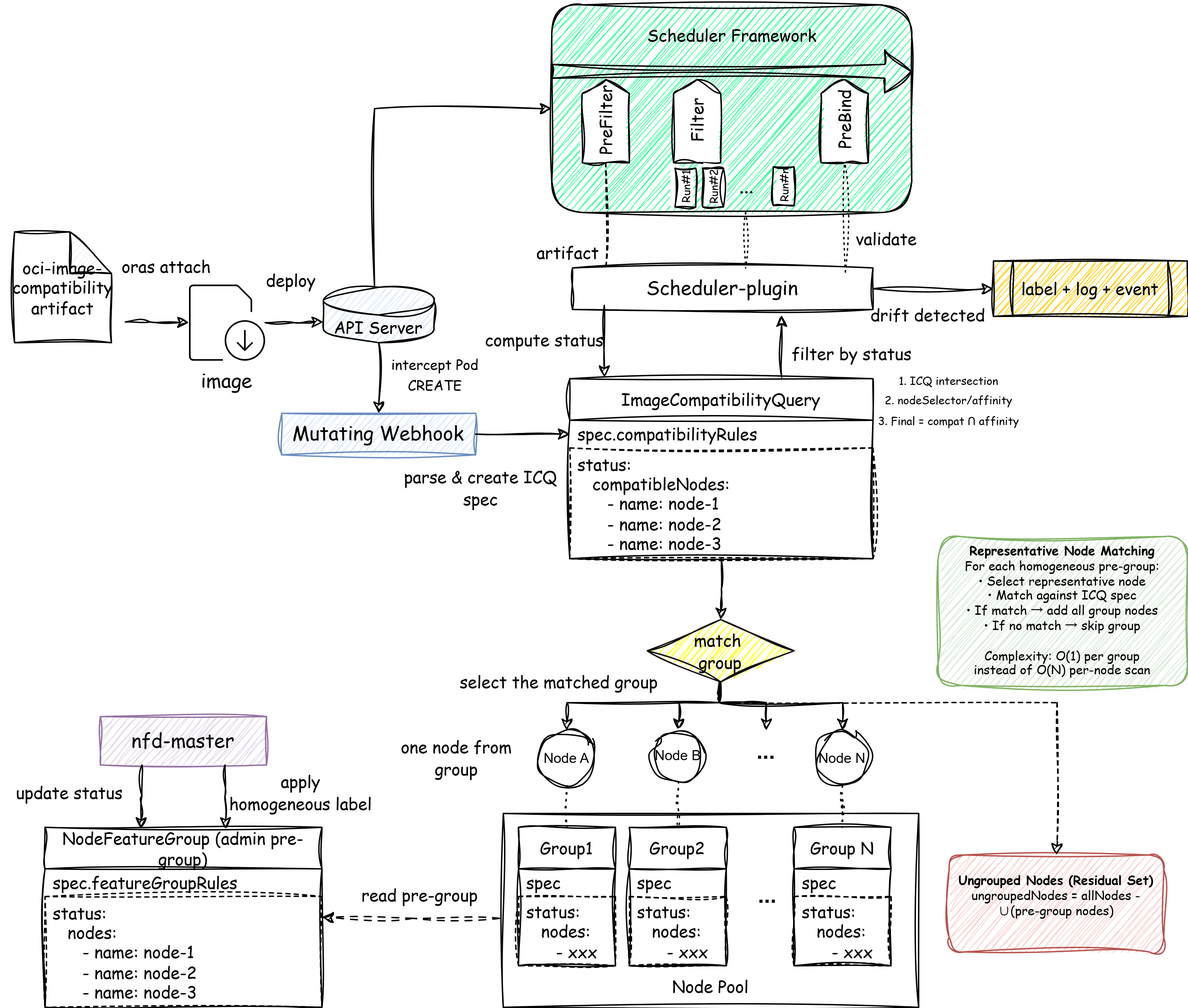
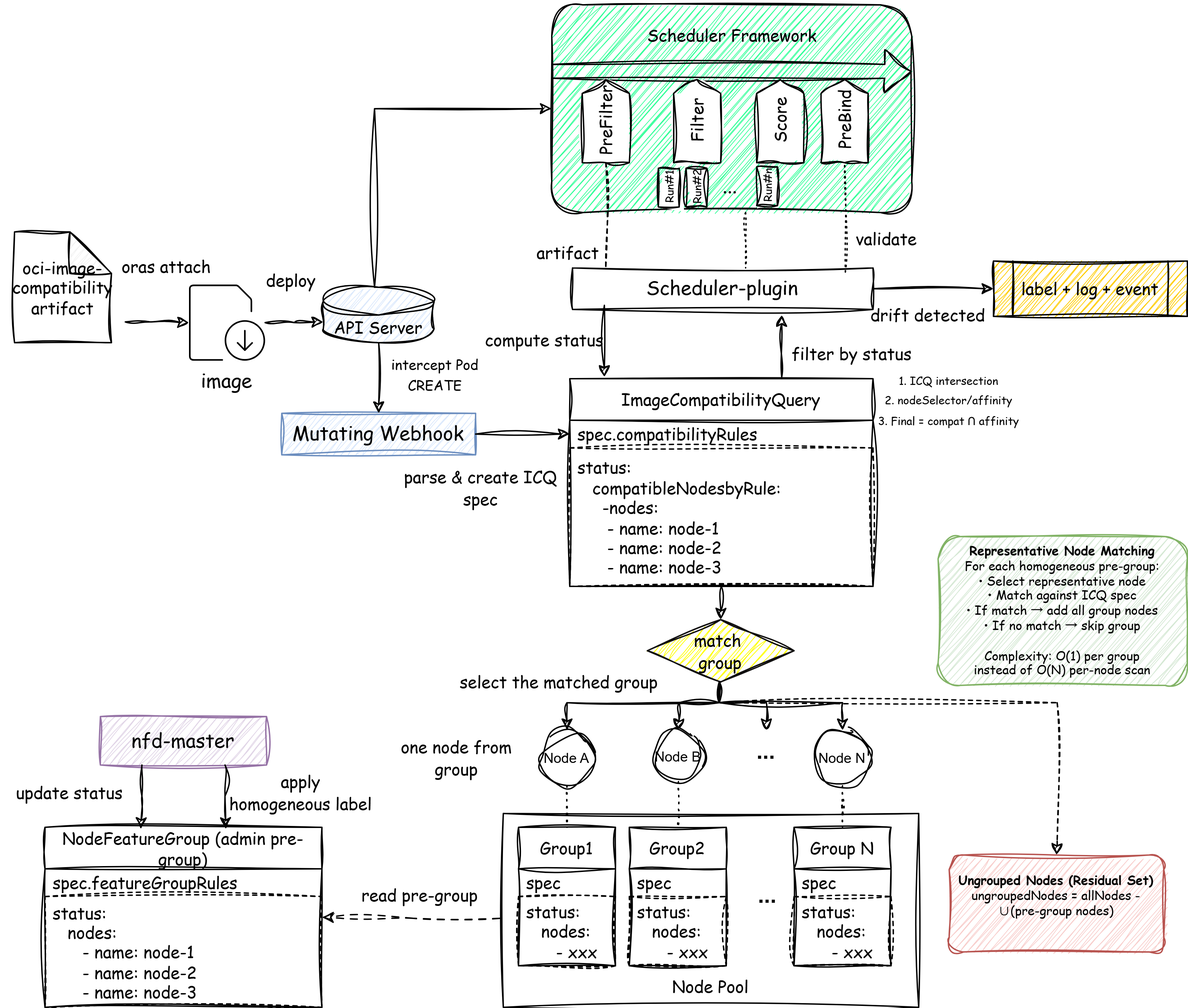
Add security section, fix the internal inconsistencies and align with the multi weight rule sets design

diff --git a/enhancements/2403-nfd-image-compatibility-scheduler/README.md b/enhancements/2403-nfd-image-compatibility-scheduler/README.md
@@ -10,7 +10,10 @@
     - [Node Features Drift Handling](#node-features-drift-handling)
     - [NFG Status Update Latency](#nfg-status-update-latency)
 - [Design Details](#design-details)
+  - [Component Responsibilities](#component-responsibilities)
+  - [Security](#security)
   - [Proposal C: Node Pre-grouping](#proposal-c-node-pre-grouping)
+    - [Workflow](#workflow)
     - [Example Flow](#example-flow)
     - [Key Characteristics](#key-characteristics)
     - [Exception Handling](#exception-handling)
@@ -63,8 +66,9 @@ When deploying applications that require specific hardware or software features 
 When node features drift over time (e.g., due to software updates or hardware changes), it can lead to mismatches between the pre-group definitions and the actual node capabilities. This drift can compromise the effectiveness of the pre-grouping strategy.
 It can be divided into two scenarios:
 1. **Drift Before Scheduling:** The nfd-master detects feature drift and fetch the ICQ feature dimensions to validate the homogeneity of pre-groups(`NodeFeatureGroup`). Additionally, the **PreBind phase** performs real-time validation using the latest node features, catching any race conditions where ICQ status might be stale.
-2. **Drift After Scheduling:** When drift happens after a pod has been scheduled, nfd-master detects the drifted node features, evaluates which ICQs are affected by comparing the drifted features against `spec.compatibilityRules`, finds pods bound to the drifted nodes via ICQ references, and alerts administrators through:
-   - **Pod labels**: `nfd.k8s-sigs.io/compatibility-drift: "true"`, `nfd.k8s-sigs.io/drift-node`, `nfd.k8s-sigs.io/drift-time`
+2. **Drift After Scheduling:** When drift happens after a pod has been scheduled, nfd-master detects the drifted node features, evaluates which ICQs are affected by comparing the drifted features against `spec.compatibilities[*].rules`, finds pods bound to the drifted nodes via ICQ references, and alerts administrators through:
+   - **Pod labels**: `nfd.k8s-sigs.io/compatibility-drift: "true"`, `nfd.k8s-sigs.io/drift-node: "<node-name>"`
+   - **Pod annotations**: `nfd.k8s-sigs.io/drift-time: "<RFC3339-timestamp>"`
    - **Structured logs**: JSON format with pod/node/image/drifted_features details
    - **K8s Events**: Warning events with `reason: NodeCompatibilityDrift`
    
@@ -76,10 +80,24 @@ If `NodeFeatureGroup` status updates are delayed, it can lead to stale informati
 ## Design Details
 The core of this proposal is to implement an `ImageCompatibilityPlugin` within the Kubernetes scheduler framework, working with a new `ImageCompatibilityQuery` (ICQ) CRD and existing `NodeFeatureGroup` (NFG) CRD.
 
-**Component Responsibilities:**
-- **Mutating Webhook**: Parses OCI artifacts during Pod admission. Checks if ICQ already exists (by image digest); if not, fetches OCI artifact and creates ICQ CR with `spec.compatibilityRules` only (no status computation). The ICQ CR itself serves as persistent cache.
-- **Scheduler Plugin**: Computes and updates `status.compatibleNodes` for ICQs, performs filtering compatible nodes from ICQ and PreBind validation.
+### Component Responsibilities
+- **Mutating Webhook**: Parses OCI artifacts during Pod admission. Checks if ICQ already exists (by image digest); if not, fetches OCI artifact and creates ICQ CR with `spec.compatibilities` only (no status computation). The ICQ CR itself serves as persistent cache. Enforces a 5-second timeout on OCI artifact fetches; if exceeded or webhook is unavailable, blocks pod creation. If fetch success with no compatibility metadata, admits the pod without creating ICQ or adding `icq-refs` annotation.
+- **Scheduler Plugin**: Computes and updates `status.compatibleNodesByRule` for ICQs, performs filtering compatible nodes from ICQ (union within ICQ, intersection across ICQs), scoring by weight, and PreBind validation.
 - **nfd-master**: Updates `NodeFeatureGroup` status for admin-defined pre-groups only, manages the homogeneity labels of pre-groups, and detects post-scheduling drift by comparing drifted node features against ICQ compatibility rules.
+- **GC Controller**: Watches pod termination events, decrements ICQ refcount (annotation `nfd.k8s-sigs.io/refcount`) via optimistic concurrency patch (retry on resourceVersion conflict), and deletes ICQ when refcount reaches 0 and TTL expires.
+
+### Security
+
+- **Registry Credentials:** The webhook reads registry credentials from secrets synced by the administrator into the webhook's own namespace. RBAC is scoped to `get secrets` in the webhook namespace only.
+- **SSRF Prevention:** The webhook enforces a configurable registry allowlist (`--allowed-registries` flag). Image references pointing to registries outside the allowlist will not be fetched.
+- **RBAC Surface:**
+
+| Component | RBAC Permissions |
+|-----------|-----------------|
+| Mutating Webhook | `create`, `get`, `update` on `ImageCompatibilityQuery` |
+| Scheduler Plugin | `get`, `list`, `watch`, `update` on `ImageCompatibilityQuery` (status subresource) |
+| nfd-master | `get`, `list`, `watch`, `update` on `NodeFeatureGroup`; `update` on Pod labels |
+| GC Controller | `get`, `list`, `watch`, `delete` on `ImageCompatibilityQuery`; `get`, `list`, `watch` on Pods |
 
 ### Proposal C: Node Pre-grouping
 
@@ -103,25 +121,68 @@ metadata:
     nfd.k8s-sigs.io/refcount: "3"
     nfd.k8s-sigs.io/last-used: "2026-06-15T10:05:00Z"
 spec:
-  compatibilityRules:
-    - name: "image-compatibility"
-      matchFeatures:
-        - feature: kernel.version
-          matchExpressions:
-            major: {op: In, value: ["6"]}
-        - feature: cpu.cpuid
-          matchExpressions:
-            AVX2: {op: Is, value: true}
+  version: "v1"
+  compatibilities:
+    - rules:
+        - name: "optimal"
+          matchFeatures:
+            - feature: kernel.version
+              matchExpressions:
+                major: {op: In, value: ["6"]}
+            - feature: cpu.cpuid
+              matchExpressions:
+                AVX2: {op: Exists}
+      weight: 100
+      tag: "preferred"
+      description: "Optimal: kernel 6.x + AVX2"
+    - rules:
+        - name: "minimum"
+          matchFeatures:
+            - feature: kernel.version
+              matchExpressions:
+                major: {op: In, value: ["5", "6"]}
+      weight: 50
+      tag: "minimum"
+      description: "Minimum: kernel 5.x+"
 status:
-  compatibleNodes:
-    - name: node-1
-    - name: node-2
-    - name: node-5
+  compatibleNodesByRule:
+    - tag: "preferred"
+      weight: 100
+      nodes:
+        - name: node-1
+        - name: node-2
+    - tag: "minimum"
+      weight: 50
+      nodes:
+        - name: node-1
+        - name: node-2
+        - name: node-5
+        - name: node-8
   conditions:
     - type: Ready
       status: "True"
       lastTransitionTime: "2026-06-15T10:00:00Z"
 ```
+
+**ICQ Spec Structure:**
+- `spec.version`: Version of the compatibility spec (matches OCI artifact version)
+- `spec.compatibilities`: List of compatibility sets, each containing:
+  - `rules`: List of Node Feature Rules (same structure as `NodeFeatureGroup`)
+  - `weight`: Priority of the compatibility set (higher = more preferred)
+  - `tag`: Label for grouping/distinguishing compatibility sets
+  - `description`: Human-readable description
+
+**ICQ Status Structure:**
+- `status.compatibleNodesByRule`: Nodes grouped by compatibility rule, each containing:
+  - `tag`: Matches the tag from spec
+  - `weight`: Matches the weight from spec
+  - `nodes`: List of compatible nodes (with `name` field)
+
+**Scheduling Logic:**
+- **Filter Phase**: Computes the **union** of all nodes from `compatibleNodesByRule[*].nodes` to maximize candidate set
+- **Score Phase**: Assigns scores based on `weight` — nodes in higher-weight rules get higher scores; if a node belongs to multiple rules, use the highest weight
+
+#### Workflow
 
 The process involves these main phases:
 
@@ -134,16 +195,17 @@ The process involves these main phases:
      - Constructs ICQ name: `icq-{image-digest-12chars}-{artifact-digest-12chars}`.
      - Checks if ICQ already exists：If ICQ exists → reuses it. If ICQ does not exist → parses compatibility rules and creates the ICQ CR.
    - Annotates the Pod with ICQ references: `nfd.k8s-sigs.io/icq-refs: "icq-xxx,icq-yyy"`.
-1. **Scheduling Prefilter Phase:** The scheduler plugin:
-   - Reads Pod annotations to get image digests.
-   - For each image, checks if ICQ exists and has `status.compatibleNodes` ready.
-   - If ICQ status is not ready, computes it by evaluating compatibility against admin pre-groups:
-     - For each `NodeFeatureGroup`, checks the homogeneity label `nfd.k8s-sigs.io/homogeneous-for-{icq-name}`.
-     - If label is "true", uses representative node matching: selects one representative node and checks if it satisfies the ICQ's `spec.compatibilityRules`. If the representative node matches, all nodes in that pre-group are added to `status.compatibleNodes`. If it does not match, the entire group is skipped.
-     - If label is "false" or missing, uses node-by-node matching: each node in the group is checked against the ICQ rules individually.
-   - Updates `status.compatibleNodes` and sets `conditions[Ready]=True`.
-2. **Scheduling Filter Phase:** The scheduler filters candidate nodes by checking their presence in the `status.compatibleNodes` of all relevant ICQs (intersection for multi-image Pods).
-3. **Scheduling PreBind Phase:** A final validation step that re-verifies node compatibility using the latest node features from informer cache. This catches any race conditions where ICQ status might be stale due to delayed informer updates. If validation fails, the binding is rejected and the pod is rescheduled.
+3. **Scheduling Prefilter Phase:** The scheduler plugin:
+     - Reads Pod annotations to get image digests.
+     - For each image, checks if ICQ exists and has `status.compatibleNodesByRule` ready.
+     - If ICQ status is not ready, computes it **synchronously** by evaluating each compatibility rule against admin pre-groups (node features are read from `NodeFeature` CRs):
+       - For each `NodeFeatureGroup`, checks the homogeneity label `nfd.k8s-sigs.io/homogeneous-for-{icq-name}`.
+       - If label is "true", uses representative node matching: selects one representative node and checks if it satisfies the rules. If the representative node matches, all nodes in that pre-group are added to the corresponding entry in `status.compatibleNodesByRule`. If it does not match, the entire group is skipped.
+       - If label is "false" or missing, uses node-by-node matching: each node in the group is checked against the rule individually.
+     - Updates `status.compatibleNodesByRule` and sets `conditions[Ready]=True`.
+4. **Scheduling Filter Phase:** The scheduler computes the **union** of all nodes from `status.compatibleNodesByRule[*].nodes` of each relevant ICQ, then takes the **intersection** across multiple ICQs (for multi-image Pods) to determine candidate nodes.
+5. **Scheduling Score Phase:** For each candidate node, the scheduler assigns a score based on the `weight` of the compatibility rule it belongs to.
+6. **Scheduling PreBind Phase:** A final validation step that re-verifies node compatibility using the latest node features from `NodeFeature` CRs. This catches any race conditions where ICQ status might be stale due to delayed informer updates. If validation fails, the binding is rejected and the pod is rescheduled.
 
 #### Example Flow
 
@@ -155,37 +217,37 @@ Assume a cluster with 10,000 nodes pre-grouped into 10 groups (`Group-1` to `Gro
 
 **Phase 2: Pod Creation (Webhook)**
 - The mutating webhook intercepts the first Pod creation.
-- For `app@sha256:aaa`: webhook fetches image manifest (image-digest=sha256:aaa) and latest NFD compatibility artifact (artifact-digest=sha256:xxx), checks if ICQ `icq-aaa-xxx` exists → No → extracts compatibility rules (requires kernel 6.x and AVX2), creates ICQ CR with `spec.compatibilityRules`.
-- For `sidecar@sha256:bbb`: webhook fetches image manifest (image-digest=sha256:bbb) and latest NFD compatibility artifact (artifact-digest=sha256:yyy), checks if ICQ `icq-bbb-yyy` exists → No → extracts compatibility rules (requires kernel 5.x or later), creates ICQ CR.
+- For `app@sha256:aaa`: webhook fetches image manifest (image-digest=sha256:aaa) and latest NFD compatibility artifact (artifact-digest=sha256:xxx), checks if ICQ `icq-aaa-xxx` exists → No → extracts compatibilities (e.g., preferred: kernel 6.x + AVX2 weight=100; minimum: kernel 5.x+ weight=50), creates ICQ CR with `spec.compatibilities`.
+- For `sidecar@sha256:bbb`: webhook fetches image manifest (image-digest=sha256:bbb) and latest NFD compatibility artifact (artifact-digest=sha256:yyy), checks if ICQ `icq-bbb-yyy` exists → No → extracts compatibilities (e.g., kernel 5.x+ weight=100), creates ICQ CR.
 - Pod is annotated with `nfd.k8s-sigs.io/icq-refs: "icq-aaa-xxx,icq-bbb-yyy"` and admitted.
 - For the 2nd and 3rd replicas: webhook finds ICQs already exist → reuses them (no registry fetch). Only 2 registry fetches total for all 3 Pods.
 
 **Phase 3: Homogeneity Check (nfd-master, triggered by ICQ creation)**
 - nfd-master watches node feature drift event and ICQ creation events via informer.
-- When new ICQ is created (e.g., `icq-aaa-xxx`) or node feature drift is detected, nfd-master extracts compatibility dimensions from ICQ `spec.compatibilityRules` (e.g., kernel.version, cpu.cpuid.AVX2).
+- When new ICQ is created (e.g., `icq-aaa-xxx`) or node feature drift is detected, nfd-master extracts compatibility dimensions from all rules in ICQ `spec.compatibilities` (e.g., kernel.version, cpu.cpuid.AVX2).
 - For each pre-group, checks if all nodes have the same values for these dimensions:
   - `Group-1` is homogeneous → label `nfd.k8s-sigs.io/homogeneous-for-icq-aaa-xxx: "true"`.
   - `Group-3` is heterogeneous (mixed AVX2 support) → label `nfd.k8s-sigs.io/homogeneous-for-icq-aaa-xxx: "false"`.
 
-**Phase 4: Scheduler Computes ICQ Status (Scheduler Plugin)**
-- Scheduler plugin detects new ICQs via informer.
-- For `icq-aaa-xxx` (requires kernel 6.x + AVX2):
-  - Evaluates each pre-group based on homogeneity label:
-  - `Group-1` (homogeneous=true): representative node matches → adds all 1,200 nodes from `Group-1` to `status.compatibleNodes`.
-  - `Group-2` (homogeneous=true): representative node does not match (no AVX2) → skips entire group.
-  - `Group-3` (homogeneous=false): node-by-node matching → adds 800 compatible nodes from 1,500 total.
-  - Continues for all groups → final `status.compatibleNodes` = 3,500 nodes.
-- For `icq-bbb-yyy` (requires kernel 5.x+):
-  - Similar evaluation → `status.compatibleNodes` = 8,200 nodes.
+**Phase 4: Scheduler Computes ICQ Status (Scheduler Plugin, during Prefilter)**
+- Scheduler plugin computes ICQ status synchronously during the Prefilter phase when `status.compatibleNodesByRule` is not yet ready.
+- For `icq-aaa-xxx` (preferred: kernel 6.x + AVX2 weight=100; minimum: kernel 5.x+ weight=50):
+  - Evaluates each pre-group based on homogeneity label, for each compatibility rule:
+  - `Group-1` (homogeneous=true): representative node matches preferred rule → adds 1,200 nodes to `compatibleNodesByRule[preferred]`; also matches minimum rule → adds to `compatibleNodesByRule[minimum]`.
+  - `Group-2` (homogeneous=true): representative node does not match preferred (no AVX2) → skips preferred; matches minimum (kernel 6.x) → adds to `compatibleNodesByRule[minimum]`.
+  - `Group-3` (homogeneous=false): node-by-node matching → adds 800 nodes to preferred, 1,500 nodes to minimum.
+  - Final `compatibleNodesByRule`: preferred=2,000 nodes, minimum=8,200 nodes.
+- For `icq-bbb-yyy` (kernel 5.x+ weight=100):
+  - Similar evaluation → `compatibleNodesByRule[default]` = 8,200 nodes.
 
 **Phase 5: Scheduling**
 - **Prefilter**: Scheduler reads Pod annotations, queries and updates the ICQ status.
-- **Filter**: Computes intersection: 3,500 ∩ 8,200 = 3,500 compatible nodes. Applies affinity/nodeSelector if present.
-- **Score/Reserve**: Selects best node from 3,500 candidates.
-- **PreBind**: Re-validates node compatibility using latest features from informer. If node is incompatible, rejects binding and reschedules.
+- **Filter**: For each ICQ, computes union of all `compatibleNodesByRule[*].nodes`. Then computes intersection across ICQs: (2,000 ∪ 8,200) ∩ 8,200 = 8,200. Applies affinity/nodeSelector if present.
+- **Score**: For each candidate node, assigns score based on highest weight from matching rules. Nodes in preferred (weight=100) get higher scores than nodes only in minimum (weight=50).
+- **PreBind**: Re-validates node compatibility using latest features from `NodeFeature` CRs. If node is incompatible, rejects binding and reschedules.
 - **Bind**: Pod bound to selected node.
 
-**Performance Impact:** Without pre-grouping, evaluating 10,000 nodes per ICQ would require 20,000 checks. With pre-grouping and homogeneity check, homogeneous groups use representative node matching (O(G)), while heterogeneous groups use node-by-node matching. In this example, 8 homogeneous groups need only 16 checks, 2 heterogeneous groups need 3,000 checks, totaling ~3,016 checks — still a significant reduction.
+**Performance Impact:** Without pre-grouping, evaluating 10,000 nodes per ICQ would require 20,000 checks. With pre-grouping and homogeneity check, homogeneous groups use representative node matching (O(G)), while heterogeneous groups use node-by-node matching. In this example, 9 homogeneous groups need only 18 checks, 1 heterogeneous group (1,500 nodes × 2 checks) needs 3,000 checks, totaling ~3,018 checks — still a significant reduction.
 
 #### Key Characteristics
 
@@ -201,10 +263,10 @@ Assume a cluster with 10,000 nodes pre-grouped into 10 groups (`Group-1` to `Gro
    - **Local LRU Cache (TTL 60s):** Webhook maintains an in-memory LRU cache to avoid repeated registry access within short time windows. Combined with ICQ CR as persistent cache, this two-layer caching prevents registry rate limiting while naturally handling artifact updates (TTL expiry triggers re-fetch, detects artifact-digest changes, creates new ICQ if needed).
 
 3. **Failure Policy for Compatibility Resolution (Scheduling Phase):**
-   - When the webhook fails to fetch the OCI artifact, it creates an ICQ with `status.conditions[Ready]=False`. The scheduler plugin executes the failure policy during Prefilter, configured by global parameter `defaultCompatibilityFailurePolicy`:
-   - **Ignore (Fail-open, default):** Skips compatibility check, allows scheduling on any node. Suitable for development clusters.
-   - **Fail (Fail-closed):** Marks Pod as Unschedulable, retries when registry recovers. Suitable for production clusters.
-   - **Two-level policy:** Cluster-level default via scheduler config, per-pod override via annotation `nfd.k8s-sigs.io/compatibility-policy`.
+   - Scheduler plugin applies `defaultCompatibilityFailurePolicy` for pods without `icq-refs` (images without compatibility metadata):
+      - **Fail (Fail-closed, default):** Marks Pod as Unschedulable. Suitable for production clusters where compatibility is critical.
+      - **Ignore (Fail-open):** Skips compatibility check, allows scheduling on any node. Suitable for development clusters.
+      - **Two-level policy:** Cluster-level default via scheduler config, per-pod override via annotation `nfd.k8s-sigs.io/compatibility-policy`.
 
 4. **ICQ Lifecycle Management (Persistent Cache):**
    - ICQs are named by combination key (`icq-{image-digest-12chars}-{artifact-digest-12chars}`), enabling automatic deduplication and artifact change detection. Name length is 29 characters, well within Kubernetes limits.
@@ -214,54 +276,56 @@ Assume a cluster with 10,000 nodes pre-grouped into 10 groups (`Group-1` to `Gro
    - GC controller deletes ICQ when refcount reaches 0 and TTL expires.
 
 5. **Scheduler Plugin Manages ICQ Status (Status Computation):**
-   - The scheduler plugin computes and updates `status.compatibleNodes` for ICQs, ensuring tight integration with the scheduling lifecycle.
+   - The scheduler plugin computes and updates `status.compatibleNodesByRule` for ICQs, ensuring tight integration with the scheduling lifecycle.
    - Status computation uses pre-group acceleration (see next point).
 
 6. **Homogeneity Check Implementation (nfd-master):**
    - **ImageCompatibility Controller:** An asynchronous controller within nfd-master that checks homogeneity for each pre-group NFG against each ICQ and updates labels.
    - **Check Algorithm:**
-     1. Extract ICQ dimensions from `spec.compatibilityRules` (e.g., `[kernel.version, cpu.cpuid.AVX2]`).
+     1. Extract ICQ dimensions from all rules in `spec.compatibilities[*].rules` (e.g., `[kernel.version, cpu.cpuid.AVX2]`).
      2. For each node in the pre-group, compute a hash of its feature values for the ICQ dimensions: `hash = SHA256(kernel.version + cpu.cpuid.AVX2)`.
      3. For each pre-group NFG, check if all nodes in the group have the same hash value.
    - **Trigger Events:** ICQ creation/update, NodeFeature changes.
    - **Label Format:** `nfd.k8s-sigs.io/homogeneous-for-{icq-name}: "true"|"false"`.
 
 7. **Representative Node Matching (Performance Optimization):**
-   - The core performance optimization evaluates only a **single representative node** from each pre-existing group against the ICQ's compatibility rules, rather than scanning all nodes.
+   - The core performance optimization evaluates only a **single representative node** from each pre-existing group against each compatibility rule in the ICQ, rather than scanning all nodes.
    - Reduces complexity from O(N) to O(G) where G is the number of groups (typically 10-50) and N is the total number of nodes.
    - For each pre-group(async processing), the matching strategy is determined by the homogeneity label `nfd.k8s-sigs.io/homogeneous-for-{icq-name}`:
-     - **Label = "true"** → representative node matching: if the representative node matches, all nodes in that group are added to `status.compatibleNodes`. If it does not match, the entire group is skipped.
+     - **Label = "true"** → representative node matching: if the representative node matches a rule, all nodes in that group are added to the corresponding entry in `status.compatibleNodesByRule`. If it does not match, the entire group is skipped for that rule.
      - **Label = "false"/missing** → node-by-node matching: each node in the group is checked against the ICQ rules individually.
 
 8. **Ungrouped Node Handling (Status Computation):**
    - Nodes that do not belong to any `NodeFeatureGroup` are automatically handled through an implicit residual set mechanism.
    - During ICQ status computation, the scheduler plugin identifies ungrouped nodes: `ungroupedNodes = allNodes - ∪(all pre-group status.nodes)`.
    - Ungrouped nodes are evaluated individually using per-node matching.
-   - Matching ungrouped nodes are added to `status.compatibleNodes` alongside matched pre-group nodes.
+   - Matching ungrouped nodes are added to the corresponding entries in `status.compatibleNodesByRule` alongside matched pre-group nodes.
    - If all nodes are ungrouped, the system degrades gracefully to full per-node scanning (O(N) complexity).
 
 9. **Multi-Image Pod Handling (Filter Phase):**
    - For Pods with multiple containers (app + init + sidecars), each image gets its own ICQ.
-   - The scheduler computes the intersection of all ICQs' `status.compatibleNodes` during the Filter phase.
-   - Example: Pod has image-A (compatible with nodes 1-500) and image-B (compatible with nodes 1-800) → final compatible nodes are 1-500 (intersection).
+   - For each ICQ, the scheduler computes the **union** of all nodes from `status.compatibleNodesByRule[*].nodes`.
+   - Then the scheduler computes the **intersection** across all ICQs to determine candidate nodes.
+   - Example: Pod has image-A (union=nodes 1-500) and image-B (union=nodes 1-800) → final compatible nodes are 1-500 (intersection).
    - Images without compatibility metadata are skipped (no ICQ created), meaning they impose no compatibility constraints.
 
 10. **Affinity/NodeSelector Compatibility (Filter Phase):**
-   - The compatibility scheduling plugin works alongside existing node affinity and node selector mechanisms.
-   - Compatibility filtering happens in the Filter phase, producing a set of compatible nodes.
-   - This set is then intersected with nodes selected by affinity/nodeSelector rules (handled by native Kubernetes scheduler plugins).
-   - A node must satisfy both compatibility requirements AND affinity/nodeSelector constraints.
-   - Example: compatibility filtering selects nodes 1-500, node affinity selects nodes 300-800 → final candidate nodes are 300-500 (intersection).
+    - The compatibility scheduling plugin works alongside existing node affinity and node selector mechanisms.
+    - Compatibility filtering happens in the Filter phase, producing a set of compatible nodes.
+    - This set is then intersected with nodes selected by affinity/nodeSelector rules (handled by native Kubernetes scheduler plugins).
+    - A node must satisfy both compatibility requirements AND affinity/nodeSelector constraints.
+    - Example: compatibility filtering selects nodes 1-500, node affinity selects nodes 300-800 → final candidate nodes are 300-500 (intersection).
 
 11. **PreBind Validation (Final Validation):**
-   - The PreBind phase provides real-time validation using the latest node features from informer cache.
-   - Catches race conditions where ICQ status might be stale due to delayed informer updates.
-   - If validation fails (e.g., node drifted between Prefilter and PreBind), the binding is rejected and the pod is rescheduled to a compatible node.
+    - The PreBind phase provides real-time validation using the latest node features from `NodeFeature` CRs.
+    - Catches race conditions where ICQ status might be stale due to delayed informer updates.
+    - If validation fails (e.g., node drifted between Prefilter and PreBind), the binding is rejected and the pod is rescheduled to a compatible node.
 
 #### Exception Handling
 
-- If the OCI Artifact is unreachable or lacks compatibility metadata, the webhook creates an ICQ CR with `status.conditions[Ready]=False` and records the error message. The scheduler plugin then executes the failure policy (Ignore or Fail) based on cluster-level default or per-pod override. If policy is Ignore, the plugin defaults to allowing scheduling on any node for that image. A warning event is generated for visibility.
-- If no pre-group's representative node matches the compatibility demands, the plugin correctly concludes that no compatible nodes exist in the cluster, resulting in a scheduling failure for the pod with logging an error.
+- If the OCI Artifact is unreachable (fetch timeout or network error) or if the webhook itself is unreachable (e.g., webhook pod crashed or network partition), no ICQ is created. The webhook blocks pod creation. A warning event is generated for visibility.
+- If the image has no compatibility metadata, the webhook admits the pod without creating an ICQ or adding `icq-refs` annotation. The scheduler plugin applies the `defaultCompatibilityFailurePolicy` (default: `Fail` → pod marked Unschedulable).
+- If no compatible nodes are found after evaluating **all paths** — homogeneous groups (representative node matching), heterogeneous groups (node-by-node matching), and ungrouped nodes (node-by-node matching) — the plugin concludes that no compatible nodes exist in the cluster, resulting in a scheduling failure for the pod with logging an error.
 - If a pre-group is found to be empty (i.e., its `status.nodes` list is empty), the plugin skips that group during evaluation, ensuring that only valid groups are considered.
 - If PreBind validation fails (node drifted during scheduling), the binding is rejected and the pod is rescheduled to a compatible node.
 
@@ -282,12 +346,12 @@ To ensure the proper functioning of the compatibility scheduler plugin, the foll
 - **Unit Tests:** Write unit tests covering core logic for the plugin.
 - **Manual e2e Tests:** Validate core end-to-end functionality by deploying a sample pod with compatibility artifacts. Including:
     - The ImageCompatibilityQuery is created correctly and the pod is successfully routed to a compatible node.
-    - Spec-Hash deduplication, reference counting and TTL lazy deletion apply correctly.
+    - Digest-pair deduplication, reference counting and TTL lazy deletion apply correctly.
     - PreBind validation catches stale ICQ status and rejects binding to drifted nodes.
     - Post-scheduling drift detection labels affected pods and generates events.
-    - The default compatibility failure policy triggers.
+    - Webhook fetch timeout correctly rejects pod admission.
 - **Fault-Injection Tests:** Explicitly validate system resilience and fallback safety under the following failure modes:
-    - **Registry Service Outage / Downtime:** Verify that when metadata becomes unreachable, setting failurePolicy: Fail correctly suspends/rejects the Pod, while setting failurePolicy: Ignore smoothly downgrades the safety policy without stalling the scheduling queue.
+    - **Registry Service Outage / Downtime:** Verify that when metadata becomes unreachable, the webhook blocks pod creation.
     - **NFD-Master Restart / Crash:** Verify that while the Master is offline, the scheduler can continuously make safe decisions using cached NodeFeatureGroup states, and validate that state synchronization latency remains minimal once the Master recovers.
     - **Stale ICQ Status:** Artificially inject a delay in ICQ status computation to verify that PreBind validation catches the staleness and rejects binding.
     - **Node Feature Drift During Scheduling:** Simulate a node feature change between Prefilter and PreBind to verify that PreBind validation rejects the drifted node.
